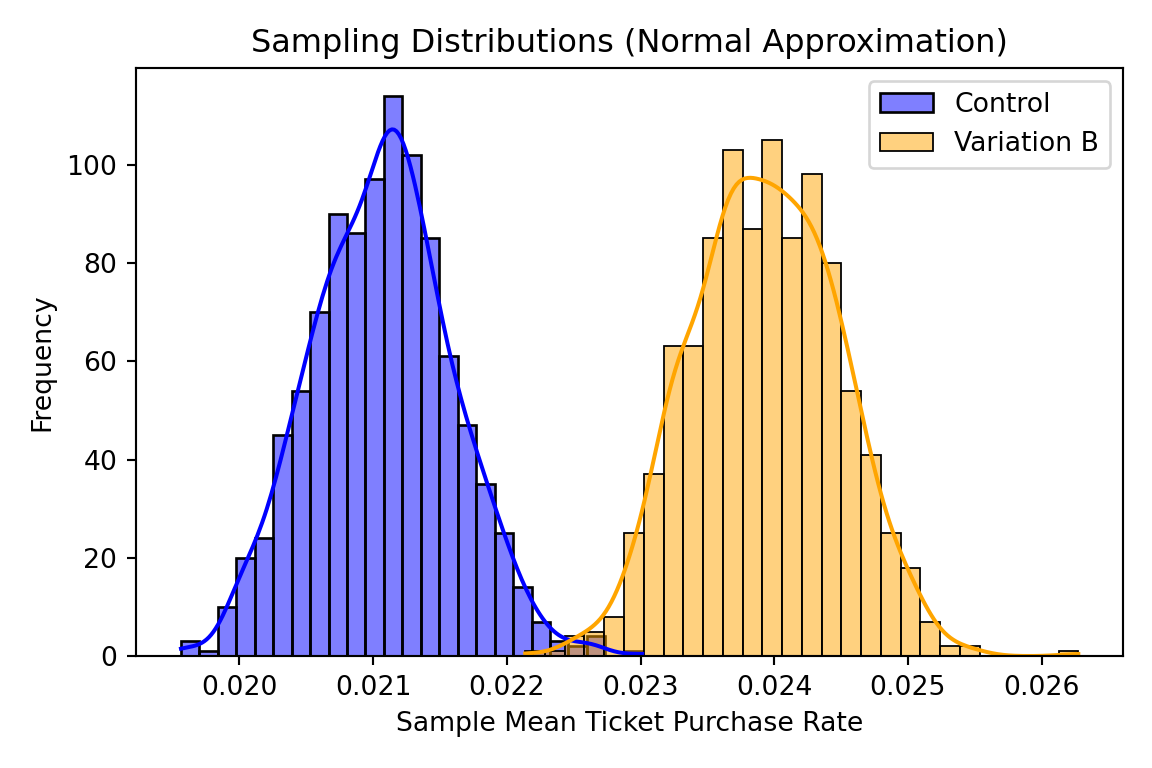
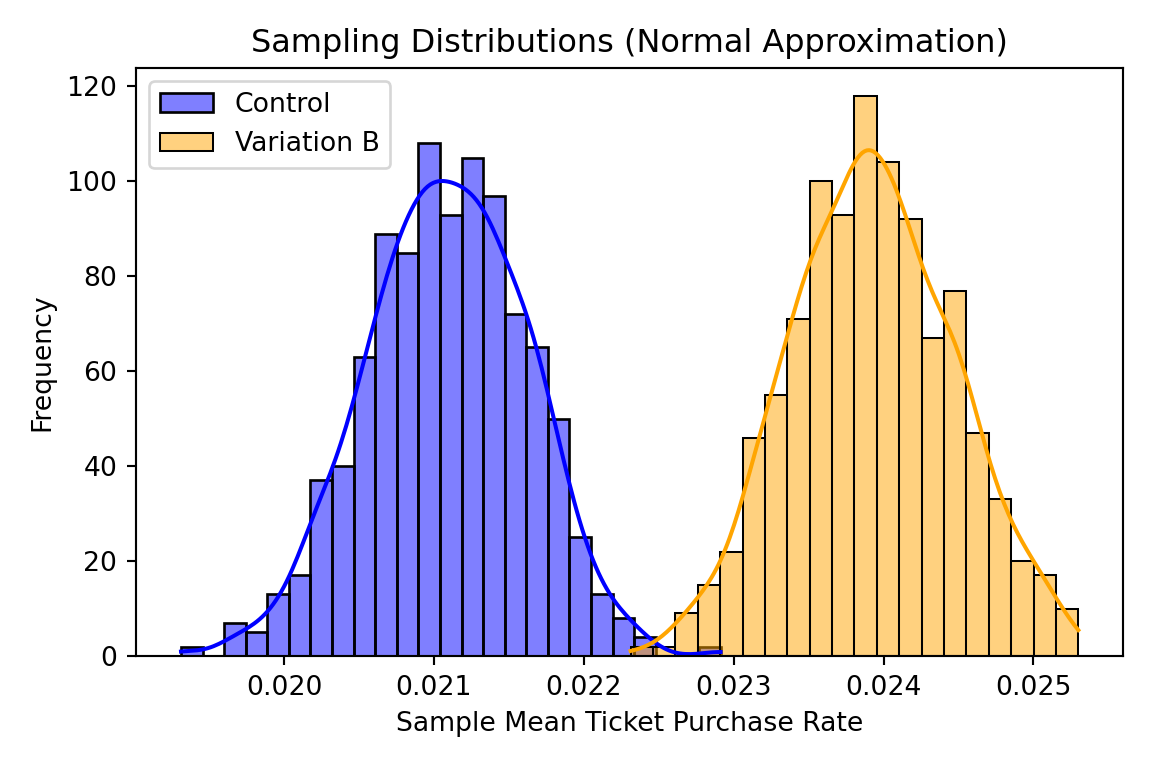
Postgresql (#23)
* Add Postgresql post

* Cleanup text

* Add frequent and infrequent queries

diff --git a/content/post/2025-08-21-postgresql-container-for-dev/index.html b/content/post/2025-08-21-postgresql-container-for-dev/index.html
@@ -16,7 +16,7 @@ tags:
 
 
 
-<p>My past few positions have had me using a lot of Python, R, Docker, Airflow etc., and not as much pure SQL for analysis. As a result, my SQL skills are a little rusty. So I decided to create a develpment environment for SQL in order to practice. In this quick post I’ll outline how I setup a PostgreSQL environment in a docker container. There are plenty of practice environments online, but I want to have certain data tables available to practice analyzing business data specifically (MAU, ARPU, Revenue, etc.).</p>
+<p>My past few positions have had me using a lot of Python, R, Docker, Airflow etc., and not as much pure SQL for analysis. As a result, my SQL skills are a little rusty. So I decided to create a development environment for SQL in order to practice. In this quick post I’ll outline how I setup a PostgreSQL environment in a docker container. There are plenty of practice environments online, but I want to have certain data tables available to practice analyzing business data specifically (MAU, ARPU, Revenue, etc.).</p>
 <p>Once finished We’ll be able to connect, to the db, and query like below:</p>
 <pre class="r"><code>library(DBI)
 library(RPostgres)
@@ -98,20 +98,19 @@ volumes:
 <p>This installs postgres16, creates the environment and mounts a few volumes.</p>
 <p>We can start the container by:</p>
 <pre class="bash"><code>docker-compose up --build</code></pre>
-<p>To build and standup the image from a terminal window.</p>
+<p>To build and stand-up the image from a terminal window.</p>
 <p>make sure to have postgres and libpq installed using your preferred method (here homebrew):</p>
 <pre class="bash"><code>brew install postgresql 
 brew install libpq </code></pre>
-</div>
-<div id="connect-to-the-db-with-psql" class="section level1">
-<h1>Connect to the db with psql</h1>
+<div id="connect-to-the-database-with-psql" class="section level2">
+<h2>Connect to the Database with psql</h2>
 <p>Then open an new terminal in our working directory and issue:</p>
 <pre class="bash"><code>psql -h localhost -U anton -d piper </code></pre>
 <p>This will open psql and allow us to execute sql commands. You should see <code>piper=#</code> as a prompt.</p>
 <p>As a Hello World we can create a simple table. Paste in the code below:</p>
 </div>
-<div id="create-mtcars-table" class="section level1">
-<h1>Create mtcars table</h1>
+<div id="create-example-mtcars-table" class="section level2">
+<h2>Create Example <strong>MTCARS</strong> Table</h2>
 <pre class="bash"><code>CREATE TABLE mtcars (
     car_name VARCHAR(50) PRIMARY KEY,
     mpg NUMERIC,
@@ -163,6 +162,7 @@ VALUES
   (&#39;Maserati Bora&#39;, 15, 8, 301, 335, 3.54, 3.57, 14.6, 0, 1, 5, 8),
   (&#39;Volvo 142E&#39;, 21.4, 4, 121, 109, 4.11, 2.78, 18.6, 1, 1, 4, 2)
 ;</code></pre>
+<p>MTCARS is a famous sample data set. Now we can query it.</p>
 <pre class="sql"><code>select * from mtcars limit 5</code></pre>
 <div class="knitsql-table">
 <table style="width:100%;">
@@ -272,8 +272,8 @@ VALUES
 </table>
 </div>
 </div>
-<div id="loading-csv-files-as-tables" class="section level1">
-<h1>Loading csv Files as Tables</h1>
+<div id="loading-csv-files-as-tables" class="section level2">
+<h2>Loading csv Files as Tables</h2>
 <p>I won’t go into great detail on how to load all the tables but here is a quick example.</p>
 <p>A good way to populate some sample data is to curl some files exec int the container, copy the files. From the terminal:</p>
 <pre class="bash"><code>curl &quot;https://assets.datacamp.com/production/repositories/4016/datasets/606e6e9165c25477db078996fa7e0a3e994b93d3/orders.csv&quot; &gt; orders.csv
@@ -294,4 +294,217 @@ CREATE TABLE orders (
 <p>Now use the psql COPY command to copy the csv into the orders table</p>
 <pre class="sql"><code>COPY orders FROM &#39;../orders.csv&#39; DELIMITER &#39;,&#39; CSV HEADER;</code></pre>
 <p>Now you have a nice little development environment to practice SQL based data analysis. Enjoy!</p>
+</div>
+</div>
+<div id="some-analysis-of-customer-order-data" class="section level1">
+<h1>Some Analysis of Customer Order Data</h1>
+<p>Let’s say you want to take a look at the change in frequent vs infrequent customers over time. We’ll user data from a fictional food delivery service. We’ll define “frequent” users as those who place 4 or more orders a month and infrequent as those who placed less. Let’s look at the sum of orders for both groups to see how many orders each place in total each month (i.e. How many total orders each group contributes to the total).</p>
+<pre class="sql"><code>-- frequent vs infrequent
+
+with order_count_by_user as (
+select user_id, 
+	DATE_TRUNC(&#39;month&#39;, order_date) :: DATE AS delivr_month, 
+	COUNT(distinct order_id) as order_count
+FROM orders
+GROUP BY delivr_month, user_id),
+
+frequent_users as ( select user_id, delivr_month, order_count 
+from order_count_by_user
+where order_count &gt;= 4
+order by user_id),
+
+sum_frequent as (
+select frequent_users.delivr_month, sum(frequent_users.order_count) as order_sum_frequent
+from frequent_users
+group by frequent_users.delivr_month
+order by frequent_users.delivr_month),
+
+infrequent_users as ( select user_id, delivr_month, order_count 
+from order_count_by_user
+where order_count &lt; 4
+order by user_id),
+
+sum_infrequent as (
+select infrequent_users.delivr_month, sum(infrequent_users.order_count) as order_sum_infrequent
+from infrequent_users
+group by infrequent_users.delivr_month
+order by infrequent_users.delivr_month)
+
+select sum_frequent.delivr_month, order_sum_frequent, order_sum_infrequent 
+from sum_frequent 
+join sum_infrequent 
+	on sum_frequent.delivr_month = sum_infrequent.delivr_month;</code></pre>
+<div class="knitsql-table">
+<table>
+<caption><span id="tab:unnamed-chunk-13">Table 3: </span>7 records</caption>
+<thead>
+<tr class="header">
+<th align="left">delivr_month</th>
+<th align="right">order_sum_frequent</th>
+<th align="right">order_sum_infrequent</th>
+</tr>
+</thead>
+<tbody>
+<tr class="odd">
+<td align="left">2018-06-01</td>
+<td align="right">74</td>
+<td align="right">208</td>
+</tr>
+<tr class="even">
+<td align="left">2018-07-01</td>
+<td align="right">95</td>
+<td align="right">350</td>
+</tr>
+<tr class="odd">
+<td align="left">2018-08-01</td>
+<td align="right">122</td>
+<td align="right">548</td>
+</tr>
+<tr class="even">
+<td align="left">2018-09-01</td>
+<td align="right">214</td>
+<td align="right">791</td>
+</tr>
+<tr class="odd">
+<td align="left">2018-10-01</td>
+<td align="right">505</td>
+<td align="right">1044</td>
+</tr>
+<tr class="even">
+<td align="left">2018-11-01</td>
+<td align="right">1198</td>
+<td align="right">1386</td>
+</tr>
+<tr class="odd">
+<td align="left">2018-12-01</td>
+<td align="right">3472</td>
+<td align="right">1344</td>
+</tr>
+</tbody>
+</table>
+</div>
+<p>Now let’s calculate the percent of users that are frequent vs infrequent, by count of users, to see how this is trending.</p>
+<pre class="sql"><code>-- percent frequent users by count
+
+with order_count_by_user as (
+select user_id, 
+	DATE_TRUNC(&#39;month&#39;, order_date) :: DATE AS delivr_month, 
+	COUNT(distinct order_id) as order_count
+FROM orders
+GROUP BY delivr_month, user_id),
+
+frequent_users as ( select user_id, delivr_month, order_count 
+from order_count_by_user
+where order_count &gt;= 4
+order by user_id),
+
+count_frequent as (
+select frequent_users.delivr_month, count(distinct frequent_users.user_id) as user_count_frequent
+from frequent_users
+group by frequent_users.delivr_month
+order by frequent_users.delivr_month),
+
+infrequent_users as ( select user_id, delivr_month, order_count 
+from order_count_by_user
+where order_count &lt; 4
+order by user_id),
+
+count_infrequent as (
+select infrequent_users.delivr_month, count(distinct infrequent_users.user_id) as user_count_infrequent
+from infrequent_users
+group by infrequent_users.delivr_month
+order by infrequent_users.delivr_month),
+
+all_users as ( select user_id, delivr_month, order_count 
+from order_count_by_user
+order by user_id),
+
+count_all_users as (
+select all_users.delivr_month, count(distinct all_users.user_id) as user_count_total
+from all_users
+group by all_users.delivr_month
+order by all_users.delivr_month
+)
+
+select count_frequent.delivr_month, user_count_frequent, user_count_infrequent, user_count_total, 
+round(user_count_frequent/user_count_total::numeric, 3) as perc_users_frequent 
+from count_frequent 
+join count_infrequent 
+	on count_frequent.delivr_month = count_infrequent.delivr_month
+join count_all_users on count_all_users.delivr_month = count_frequent.delivr_month;
+</code></pre>
+<div class="knitsql-table">
+<table style="width:100%;">
+<caption><span id="tab:unnamed-chunk-14">Table 4: </span>7 records</caption>
+<colgroup>
+<col width="14%" />
+<col width="21%" />
+<col width="23%" />
+<col width="18%" />
+<col width="21%" />
+</colgroup>
+<thead>
+<tr class="header">
+<th align="left">delivr_month</th>
+<th align="right">user_count_frequent</th>
+<th align="right">user_count_infrequent</th>
+<th align="right">user_count_total</th>
+<th align="right">perc_users_frequent</th>
+</tr>
+</thead>
+<tbody>
+<tr class="odd">
+<td align="left">2018-06-01</td>
+<td align="right">17</td>
+<td align="right">106</td>
+<td align="right">123</td>
+<td align="right">0.138</td>
+</tr>
+<tr class="even">
+<td align="left">2018-07-01</td>
+<td align="right">22</td>
+<td align="right">204</td>
+<td align="right">226</td>
+<td align="right">0.097</td>
+</tr>
+<tr class="odd">
+<td align="left">2018-08-01</td>
+<td align="right">28</td>
+<td align="right">309</td>
+<td align="right">337</td>
+<td align="right">0.083</td>
+</tr>
+<tr class="even">
+<td align="left">2018-09-01</td>
+<td align="right">48</td>
+<td align="right">441</td>
+<td align="right">489</td>
+<td align="right">0.098</td>
+</tr>
+<tr class="odd">
+<td align="left">2018-10-01</td>
+<td align="right">113</td>
+<td align="right">576</td>
+<td align="right">689</td>
+<td align="right">0.164</td>
+</tr>
+<tr class="even">
+<td align="left">2018-11-01</td>
+<td align="right">257</td>
+<td align="right">687</td>
+<td align="right">944</td>
+<td align="right">0.272</td>
+</tr>
+<tr class="odd">
+<td align="left">2018-12-01</td>
+<td align="right">668</td>
+<td align="right">599</td>
+<td align="right">1267</td>
+<td align="right">0.527</td>
+</tr>
+</tbody>
+</table>
+</div>
+<p>The ratio of frequent to infrequent customers is increasing over time. As well, total orders and customer counts are also growing. These are good signs of a healthy service.</p>
+<p>… to be continued</p>
 </div>

diff --git a/content/post/2025-06-07-a-b-n-testing-in-python/index.html b/content/post/2025-06-07-a-b-n-testing-in-python/index.html
@@ -20,14 +20,13 @@ tags:
 
 <p>The following case study will illustrate how to analyze the results for an A/N Test (or multitest). An A/N Test is a type of A/B Test in which multiple variants are tested at the same time.</p>
 <p>We’ll compare 2 variants, against a control, to increase purchase rate on a fictional website. Since testing multiple variants at once increases the error rate (known as Family Wise Error Rate–FWER), we’ll use a correction when determining statistical significance.</p>
-<p>Along the way, I’ll warn against some common mistakes when designing and interpreting results of experiments. And touch on the sticky subject of <em>P-values</em> and what they mean (and don’t mean). Hope you find it informative.
-<!--more--></p>
+<p>Along the way, I’ll warn against some common mistakes when designing and interpreting results of experiments. And touch on the sticky subject of <em>P-values</em> and what they mean (and don’t mean). Hope you find it informative. <!--more--></p>
 <div id="intro" class="section level1">
 <h1>Intro</h1>
 <p>We’re asked to analyze the results of an experiment, performed on the splash-page, for a fictional theme park called Redwood Ridge. The park wants to launch an AI assisted booking agent, referred to as Rocky Raccoon, to help customers booking flights, rental cars, meals, etc. They wish to test 2 variants: Variant_A with a simplified widget; Variant_B with a more interactive wizard; against the control page with no agent.</p>
-<http>
+<p><http></p>
 <center>
-<img src="variants2.png" alt = "The three pages"  width = "98%">
+<img src="variants2.png" alt="The three pages" width="98%"/>
 </center>
 <p></http></p>
 </div>
@@ -263,7 +262,7 @@ print(&#39;Bonferroni Corrected alpha: {:.4f}&#39;.format(corrected[2]))</code><
 <pre><code>## Significant Test: [False  True False]
 ## Corrected P-values: [0.14968898 0.00022752 0.13721744]
 ## Bonferroni Corrected alpha: 0.0170</code></pre>
-<p>We see that the only test that is actually significant is the <em>Control</em> vs <em>variation_B</em>. The [False, True, False] corresponds to the [Control_v_A, Control_v_B, vartiation_A_v_B] pvals that we supplied.</p>
+<p>We see that the only test that is actually significant is the <em>Control</em> vs <em>variation_B</em>. The <span class="math display">\[False, True, False\]</span> corresponds to the <span class="math display">\[Control_v_A, Control_v_B, vartiation_A_v_B\]</span> pvals that we supplied.</p>
 </div>
 </div>
 <div id="visualizing-the-bootstrapped-data" class="section level1">
@@ -325,7 +324,7 @@ print(f&quot;Size of each random sample: {sample_size}&quot;)</code></pre>
 ## Text(0.5, 1.0, &#39;Sampling Distributions (Normal Approximation)&#39;)
 ## Text(0.5, 0, &#39;Sample Mean Ticket Purchase Rate&#39;)
 ## Text(0, 0.5, &#39;Frequency&#39;)
-## &lt;matplotlib.legend.Legend object at 0x318dd5ab0&gt;</code></pre>
+## &lt;matplotlib.legend.Legend object at 0x30ed840d0&gt;</code></pre>
 <p><img src="{{< blogdown/postref >}}index_files/figure-html/displot-1.png" width="576" /></p>
 <pre><code>## Control group size: 85000
 ## Variation B group size: 85000
